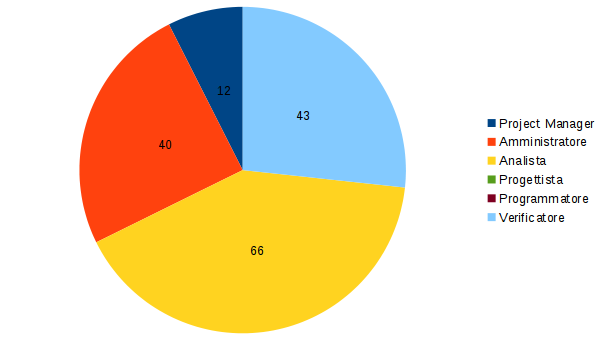
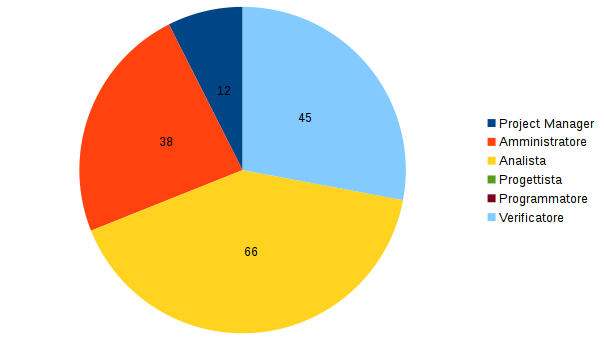
merge lavoro di walter sul PdP v2

diff --git a/doc/1_RR/esterni/PianoDiProgetto/PianoDiProgetto.tex b/doc/1_RR/esterni/PianoDiProgetto/PianoDiProgetto.tex
@@ -3,7 +3,6 @@
 \input{../../../template/stile.sty}
 \input{../../../glossario/glossario.tex}
 
-
 %Titolo documento
 \newcommand{\titoloDocumento}{Piano di Progetto}
 
@@ -428,7 +427,7 @@ Le sotto attività svolte sono:
 	\item \textbf{Glossario:} attività svolta dai redattori parallelamente alla stesura dei documenti. Esso verrà aggiornato in modo incrementale fino al completamento della documentazione.
 \end{itemize}
 
-\begin{table}
+\begin{table}[H]
 \begin{center}
 \begin{tabular}{p{0.08\textwidth} p{0.4\textwidth} p{0.2\textwidth} p{0.1\textwidth}}
 \toprule
@@ -455,13 +454,13 @@ AN3.2 & Verifica & Verificatore & 16 \\
 \midrule
 \textbf{AN4} & \textbf{Piano di Progetto} & &  \\
 \midrule
-AN4.1 & Stesura & Project Manager \newline Amministratore & 6 \newline 12 \\
+AN4.1 & Stesura & Responsabile \newline Amministratore & 6 \newline 12 \\
 \midrule
 AN4.2 & Verifica & Verificatore & 6 \\
 \midrule
 \textbf{AN5} & \textbf{Piano di Qualifica} & & \\
 \midrule
-AN5.1 & Stesura & Project Manager \newline Amministratore \newline Analista & 6 \newline 8 \newline 10 \\
+AN5.1 & Stesura & Responsabile \newline Amministratore \newline Analista & 6 \newline 8 \newline 10 \\
 \midrule
 AN5.2 & Verifica & Verificatore & 10 \\
 \bottomrule
@@ -471,7 +470,7 @@ AN5.2 & Verifica & Verificatore & 10 \\
 \end{table}
 
 \begin{center}
-\begin{figure}
+\begin{figure}[H]
 \centering
 \includegraphics[width=\textwidth]{diagrammaGanttAnalisi.png}
 \caption{Diagramma di Gantt della ripartizione delle risorse - Analisi}
@@ -510,7 +509,7 @@ AN5.2 & Verifica & Verificatore & 10 \\
 \end{table}
 
 \begin{center}
-\begin{figure}[h]
+\begin{figure}[H]
 \centering
 \includegraphics[width=\textwidth]{diagrammaBarreAnalisiRotazioneRuoli.png}
 \caption{Diagramma della rotazione dei ruoli - Analisi}
@@ -527,7 +526,7 @@ AN5.2 & Verifica & Verificatore & 10 \\
 \textbf{Ruolo}	& \textbf{Ore} & \textbf{Costo (\euro/ora)}	& \textbf{Costo (\euro)} \\
 \midrule
 \midrule
-Project Manager & 12 & 30 & 360\\
+Responsabile & 12 & 30 & 360\\
 \midrule
 Amministratore & 40 & 20 & 800\\ 
 \midrule
@@ -547,7 +546,7 @@ Verificatore & 43 & 15 & 645\\
 \end{table}
 
 \begin{center}
-\begin{figure}[h]
+\begin{figure}[H]
 \centering
 \includegraphics[width=\textwidth]{diagrammaTortaAnalisiTotaleOre.png}
 \caption{Diagramma della ripartizione oraria dei ruoli - Analisi}
@@ -706,23 +705,167 @@ PDC8.2 & Verifica & Verificatore 1 \newline Verificatore 2 & 4 \newline 4 \\
 \subsection{Prospetto economico}
 
 \newpage
-\section{Validazione} % dal 16/05/16 al 10/06/16 => 20 ore di lavoro a testa
+\section{Verifica e validazione} % dal 16/05/16 al 10/06/16 => 20 ore di lavoro a testa
 
 \subsection{Pianificazione}
+Quest'attività che ha inizio il 2016-05-16 e termina il 2016-06-10, è l'atto conclusivo di tutte le attività di verifica incontrate durante i vari cicli di progettazione.
+\\Le sotto attività svolte sono:
+\begin{itemize}
+	\item \textbf{Incremento:} tutti i documenti verranno aggiornati in base all'ultima revisione fatta ovvero la \RQ.
+	\item \textbf{Collaudo:} per testare se il prodotto è conforme alle specifiche che il committente ha richiesto.
+\end{itemize}
+Le figure professionali attive in questa attività sono:
+\begin{itemize}
+	\item \PM;
+	\item \AM;
+	\item \PG;
+	\item \VR.
+\end{itemize}
+\newpage
+
+\begin{table}[H]
+\begin{center}
+\begin{tabular}{p{0.08\textwidth} p{0.4\textwidth} p{0.2\textwidth} p{0.1\textwidth}}
+\toprule
+\textbf{ID}	&	\textbf{Attività}	&	\textbf{Ruolo}	&	\textbf{Ore}\\
+\midrule
+\midrule
+\textbf{VA1} & \textbf{Glossario} &  &  \\
+\midrule
+VA1.1 & Incremento & Amministratore &  \\
+\midrule
+VA1.2 & Verifica & Verificatore & 3 \\
+\midrule
+\textbf{VA2} & \textbf{Norme di Progetto} & & \\
+\midrule
+VA2.1 & Incremento & Amministratore & 7 \\
+\midrule
+VA2.2 & Verifica & Verificatore & 3 \\
+\midrule
+\textbf{VA3} & \textbf{Piano di Progetto} & &  \\
+\midrule
+VA3.1 & Incremento & Responsabile & 2 \\
+\midrule
+VA3.2 & Verifica & Verificatore & 3 \\
+\midrule
+\textbf{VA4} & \textbf{Piano di Qualifica} & &  \\
+\midrule
+VA4.1 & Incremento & Verificatore1 \newline Verificatore2 & 12 \newline 12 \\
+\midrule
+VA4.2 & Verifica & Responsabile \newline Verificatore1 & 5 \newline 3 \\
+\midrule
+\textbf{VA5} & \textbf{Definizione di Prodotto} & & \\
+\midrule
+VA5.1 & Incremento & Progettista & 7\\
+\midrule
+VA5.2 & Verifica & Verificatore & 6 \\
+\midrule
+\textbf{VA6} & \textbf{Specifica Tecnica} & & \\
+\midrule
+VA6.1 & Incremento & Progettista & 7\\
+\midrule
+VA6.2 & Verifica & Verificatore & 6 \\
+\midrule
+\textbf{VA7} & \textbf{Manuali} & & \\
+\midrule
+VA7.1 & Incremento & Responsabile \newline Amministratore & 8 \newline 6 \\
+\midrule
+VA7.2 & Verifica & Responsabile \newline Verificatore1 \newline Verificatore2 & 2 \newline 5 \newline 5\\
+\midrule
+\textbf{VA8} & \textbf{Collaudo} & & \\
+\midrule
+& & Responsabile \newline Programmatore1 \newline  Programmatore2 \newline Verificatore \newline Amministratore & 9 \newline 9 \newline 9 \newline 2 \newline 9\\
+\midrule
+\textbf{VA9} & \textbf{Consegna} & & \\
+\bottomrule
+\end{tabular}
+\caption{Ripartizione delle risorse - Verifica e validazione}
+\end{center}
+\end{table}
+\newpage
 
 \subsection{Rotazione dei Ruoli}
 
+\begin{table}[H]
+\begin{center}
+\begin{tabular}{p{0.3\textwidth} p{0.05\textwidth} p{0.05\textwidth} p{0.05\textwidth} p{0.05\textwidth} p{0.05\textwidth} p{0.05\textwidth} p{0.1\textwidth}}
+\toprule
+\textbf{Membro}	&	\textbf{Re}	&	\textbf{Am}	& \textbf{An} & \textbf{Pg} & \textbf{Pr} & \textbf{Ve} & \textbf{Totale}\\
+\midrule
+\midrule
+\IB & 4 & 3 &  & 4 &  & 9 & 20 \\
+\midrule
+\AB &  & 4 &  & 6 &  & 10 & 20 \\
+\midrule
+\NDC & 2 & 7 &  & 4 & 5 & 9 & 20 \\
+\midrule
+\TP & 4 & 3 &  & & 5 & 8 & 20 \\
+\midrule
+\WS &  & 3 &  & & 3 & 9 & 20 \\
+\midrule
+\AVE & 5 & 3 &  &  & 3 & 9 & 20 \\
+\midrule
+\AVI & 5 & 4 &  & 8 &  & 3 & 20 \\
+\bottomrule
+\end{tabular}
+\caption{Rotazione dei ruoli - Verifica e validazione}
+\end{center}
+\end{table}
+
+\begin{center}
+\begin{figure}[h]
+\centering
+\includegraphics[width=\textwidth]{diagrammaBarreVerificaValidazioneRotazioneRuoli.png}
+\caption{Diagramma della ripartizione oraria dei ruoli - Analisi}
+\end{figure}
+\end{center}
+
 \subsection{Prospetto economico}
 
+\begin{table}[H]
+\begin{center}
+\begin{tabular}{p{0.2\textwidth} p{0.05\textwidth} p{0.2\textwidth} p{0.3\textwidth} }
+\toprule
+\textbf{Ruolo}	& \textbf{Ore} & \textbf{Costo (\euro/ora)}	& \textbf{Costo (\euro)} \\
+\midrule
+\midrule
+Responsabile & 18 & 30 & 300\\
+\midrule
+Amministratore & 22 & 20 & 760\\ 
+\midrule
+Analista & 0 & 25 & 1.400\\ 
+\midrule
+Progettista & 22 & 22 & 0\\ 
+\midrule
+Programmatore & 18 & 15 & 0\\ 
+\midrule
+Verificatore & 60 & 15 & 540\\ 
+\midrule
+\textbf{Totale} & \textbf{140} &  & \textbf{2.634}\\
+\bottomrule
+\end{tabular}
+\caption{Ripartizione oraria dei ruoli - Verifica e validazione}
+\end{center}
+\end{table}
+
+\begin{center}
+\begin{figure}[H]
+\centering
+\includegraphics[width=\textwidth]{diagrammaTortaVerificaValidazioneTotaleOre.png}
+\caption{Diagramma della ripartizione oraria dei ruoli - Analisi}
+\end{figure}
+\end{center}
 
 \newpage
+
 \section{Riepilogo}
 
-
 \newpage
+
 \section{Consuntivo}
 
 \newpage
+
 \appendix
 \section{Organigramma}
 
